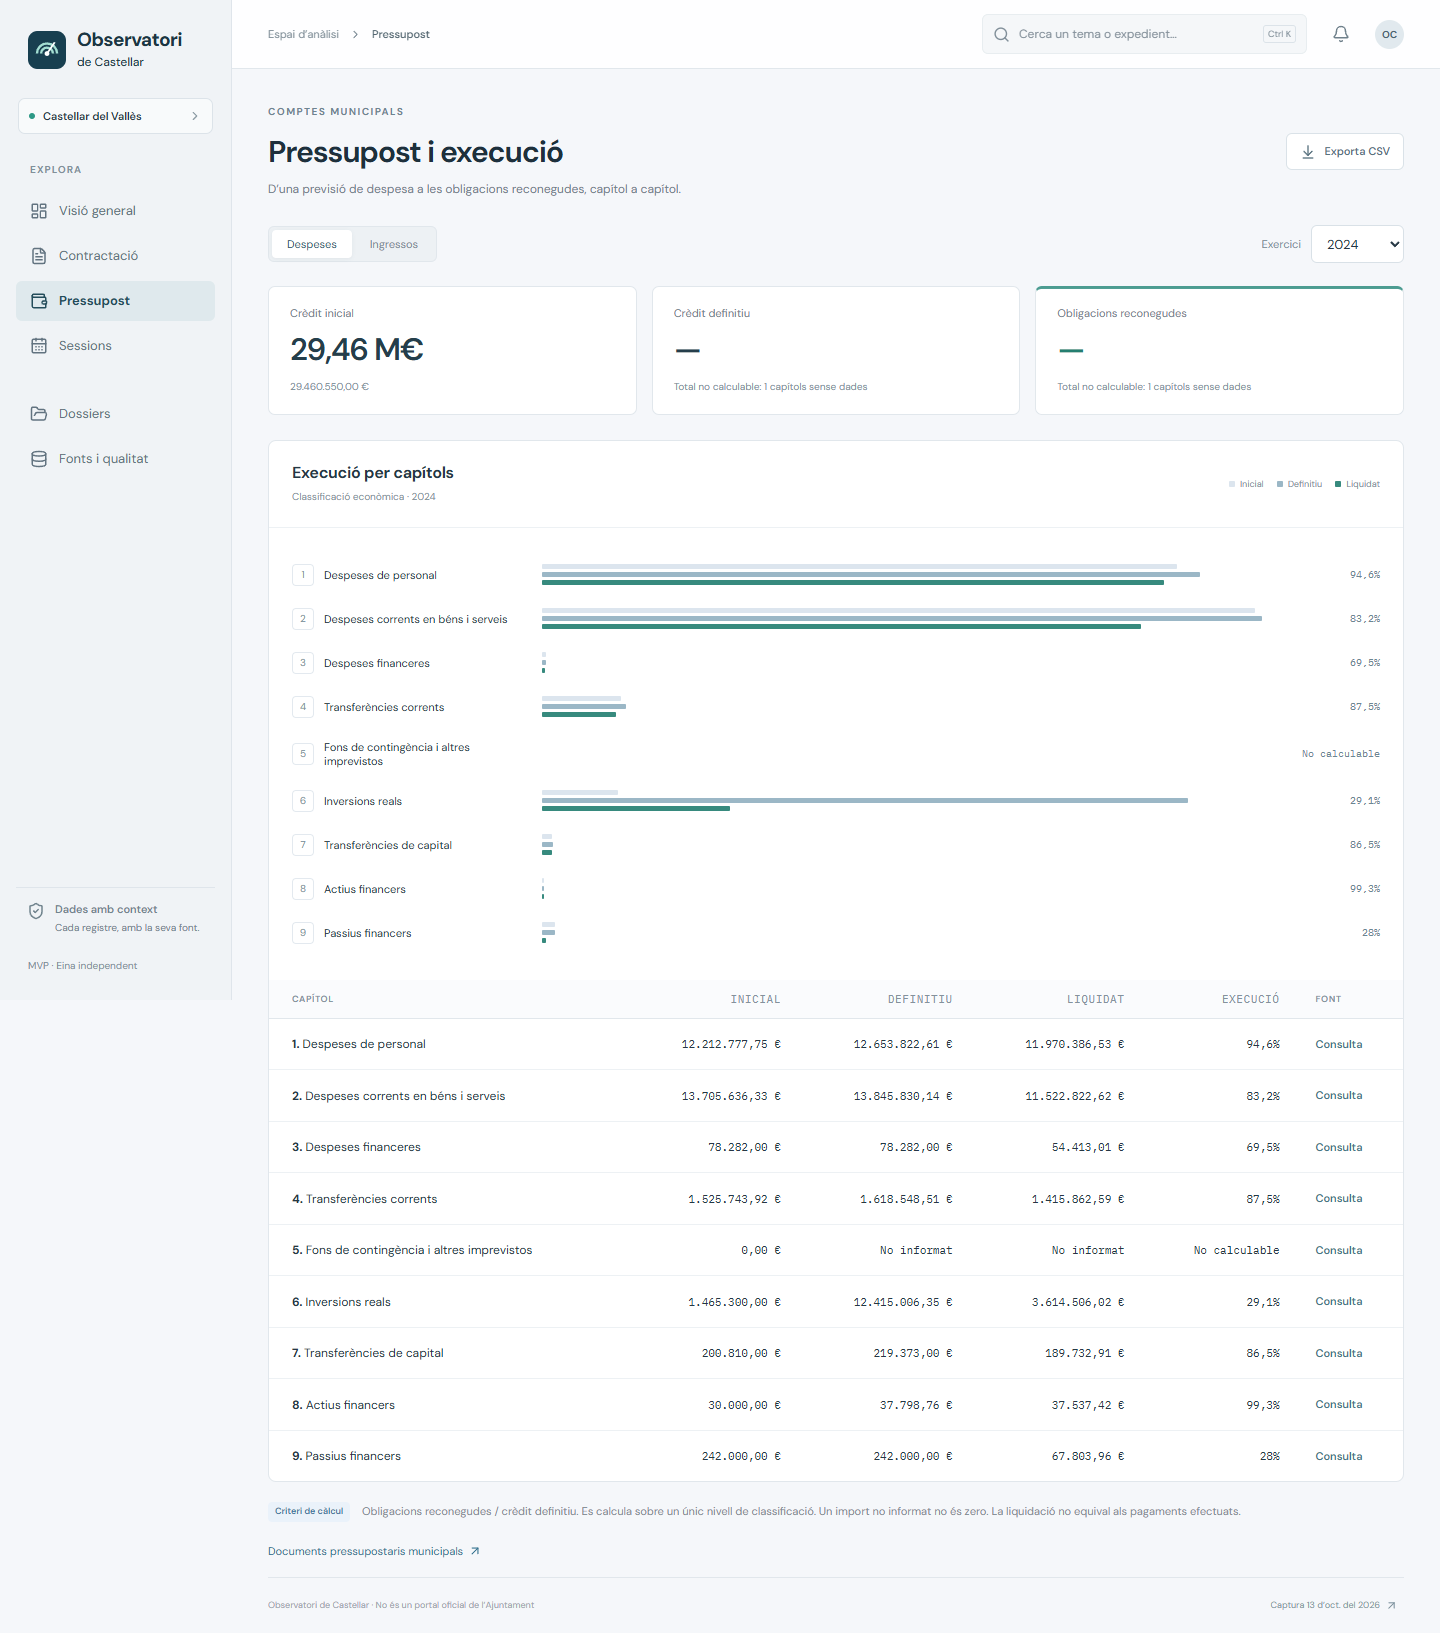
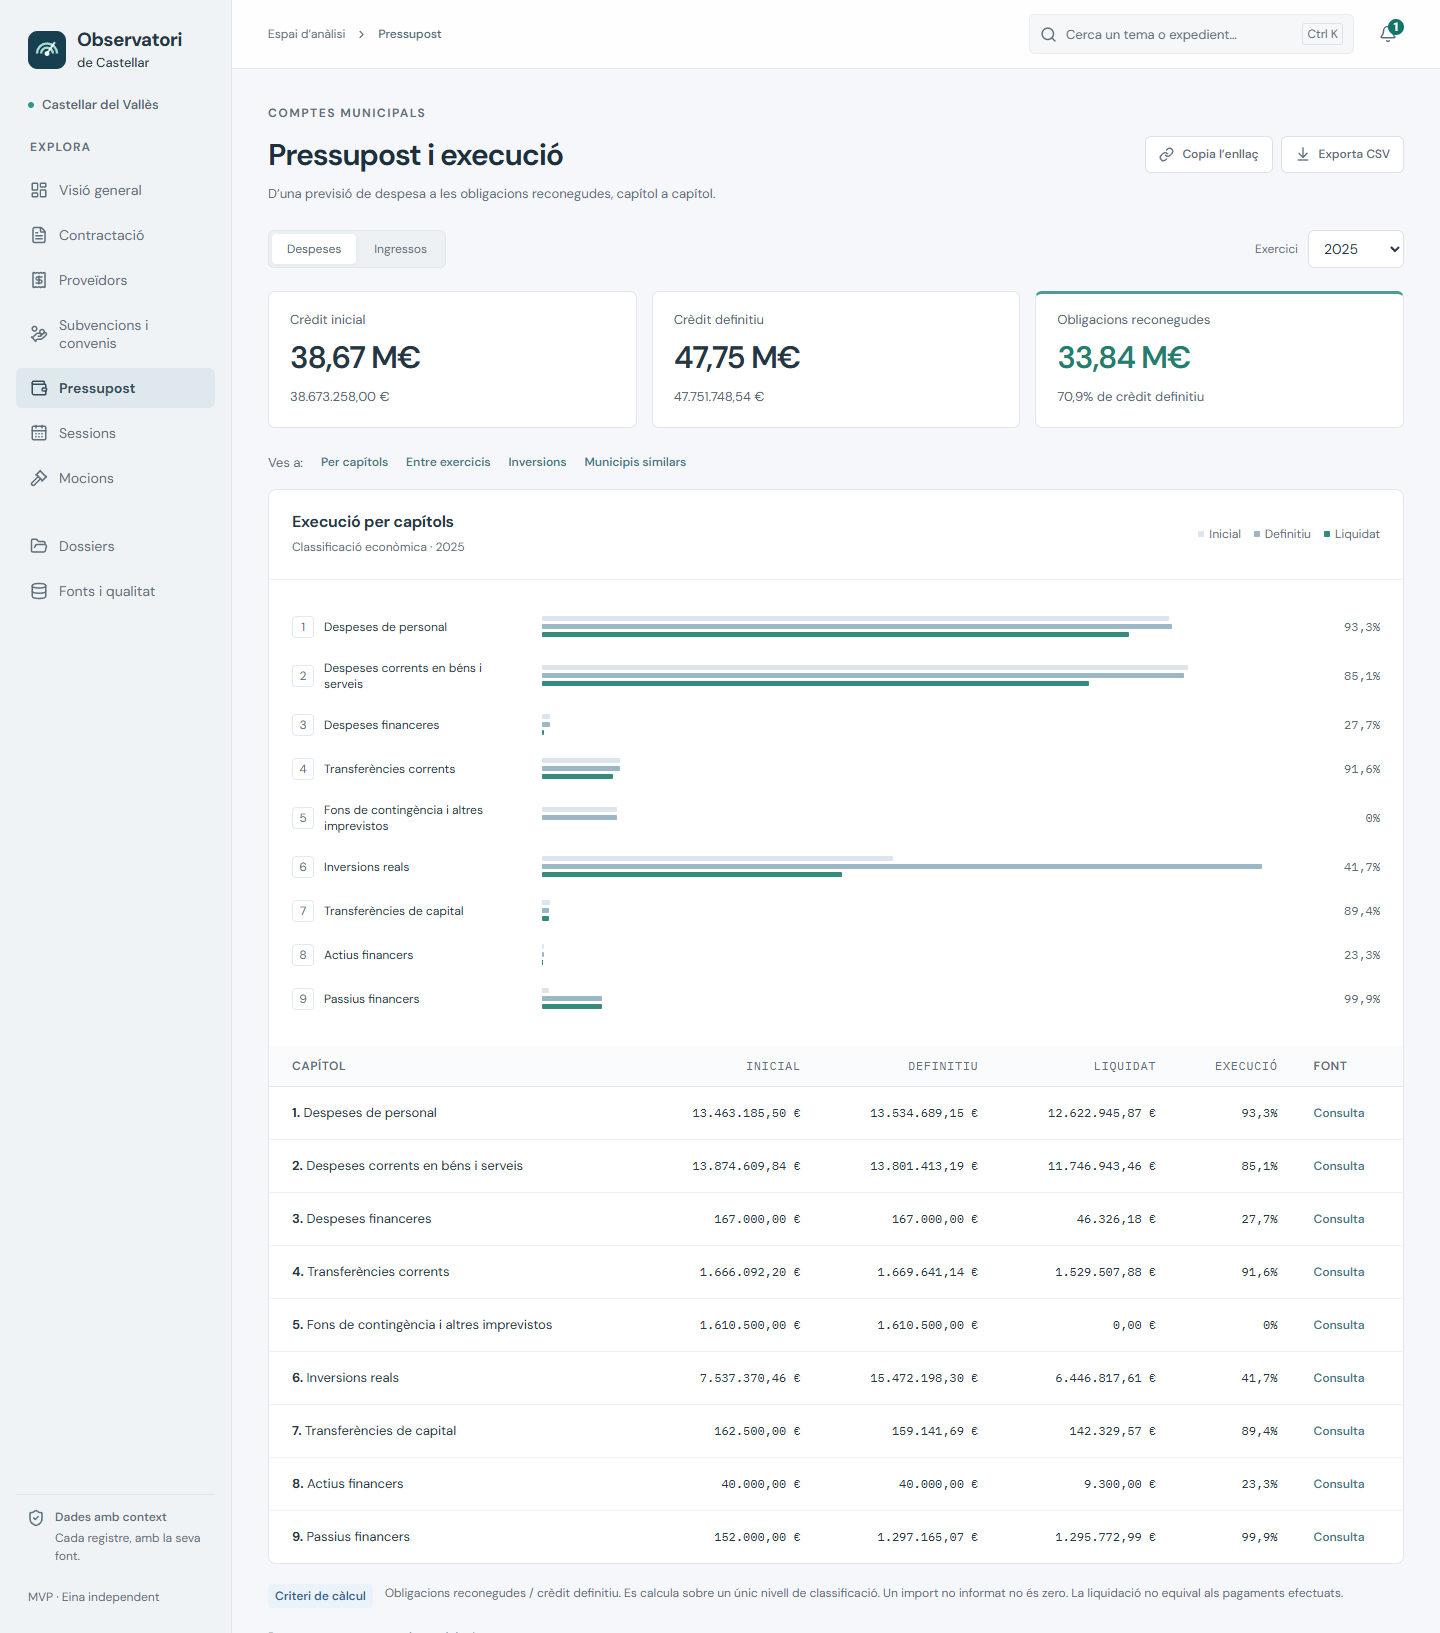
Documenta la revisió d'estètica i funcionalitat
- Verificació, README i guia d'ús amb els canvis de la revisió.
- Captures de docs/captures regenerades amb el disseny nou.

diff --git a/GUIA-D-US.md b/GUIA-D-US.md
@@ -46,8 +46,8 @@ La consulta funciona amb la captura inclosa; no cal actualitzar les dades per pr
 - **Venciments i pròrrogues:** a Contractació, «Venciments i pròrrogues» mostra, per a la font triada, els contractes no menors que acaben el termini inicial en els pròxims 6, 12 o 24 mesos, o que han vençut l’últim any, agrupats per mes. Cada data indica si és la publicada per la font o una estimació (inici + durada); les del RPC són aproximades perquè parteixen de l’adjudicació. A sota, els expedients amb dues o més pròrrogues registrades (o totes, amb «Inclou les pròrrogues úniques») amb la cronologia i l’enllaç a cada fita. Una pròrroga extraordinària es marca en vermell: convé demanar-ne la justificació. Útil per preparar preguntes abans que un servei venci sense contracte nou.
 - **Proveïdors:** la pàgina «Proveïdors» mostra, per exercici, quant ha facturat cada empresa o entitat a l’Ajuntament (amb IVA) segons el registre de factures. Per defecte s’obre el darrer exercici tancat. El primer bloc recull els emissors que superen 18.150 € (el llindar del contracte menor de serveis, 15.000 €, més l’IVA) i dels quals no s’ha trobat cap contracte amb el mateix nom al catàleg. Obre un emissor per veure’n l’evolució per exercici, els contractes trobats i l’enllaç a les factures originals. La relació és només per nom: un contracte anterior al 2022, d’una central de compres o amb l’adjudicatari amagat no hi apareix, i és el primer que cal descartar abans de fer cap pregunta. Les persones físiques no surten mai amb nom.
 - **Castellar entre municipis similars:** a «Pressupost», sota la comparació d’exercicis, la taula situa cada capítol de Castellar entre els municipis catalans de 15.000 a 35.000 habitants: import per habitant, mediana del grup, interval central (la meitat dels municipis hi cau a dins) i posició (1 = el més alt). Segueix l’exercici i el costat (despeses o ingressos) triats a dalt; la magnitud és «Liquidat» si l’exercici està tancat i «Inicial» si no. A cada fila, la tira de punts mostra tots els municipis (el punt verd és Castellar i la ratlla, la mediana); passa-hi el ratolí per veure’n el nom. «Rànquing» obre la llista ordenada d’aquell capítol, que es pot exportar en CSV. Són xifres de l’ajuntament sense empreses municipals ni consorcis: abans de treure conclusions, comprova si el servei es presta de la mateixa manera als municipis comparats.
-- **Subvencions i convenis:** la pàgina té dues vistes. «Subvencions» mostra, per exercici (per defecte, el darrer tancat), quant ha rebut cada entitat, quina part s’ha atorgat sense convocatòria (nominatives, directes, excepcionals o amb conveni: es dedueix del títol de l’acord) i si la mateixa entitat també factura a l’Ajuntament; obre una entitat per veure’n l’evolució i cada acord, i baixa fins a «Per acord o convocatòria» per veure on va cada bloc de diners. «Convenis» llista els que consten «en curs» amb la data de fi ja passada (pot ser una pròrroga que no consta a la font o un estat no actualitzat: és el primer que cal preguntar), els que vencen en els pròxims 12 mesos i els que no tenen data de fi o superen els 4 anys. El botó «Conveni CONV…» d’una subvenció porta al conveni que cita. Les persones físiques no surten mai amb nom.
-- **Noms de grup:** els ordres del dia escriuen el nom d’un grup de maneres diferents. L’eina agrupa les variants que comencen igual; per unir-ne d’altres, fes servir «Unifica noms» a la taula per grup. Les unions es poden desfer i viatgen amb l’exportació del seguiment.
+- **Subvencions i convenis:** la pàgina té dues vistes. «Subvencions» mostra, per exercici (per defecte, el darrer tancat), quant ha rebut cada entitat, quina part s’ha atorgat sense convocatòria (nominatives, directes, excepcionals o amb conveni: es dedueix del títol de l’acord) i si la mateixa entitat també factura a l’Ajuntament; obre una entitat per veure’n l’evolució i cada acord, i baixa fins a «Per acord o convocatòria» per veure on va cada bloc de diners. «Convenis» té quatre pestanyes: els que consten «en curs» amb la data de fi ja passada (pot ser una pròrroga que no consta a la font o un estat no actualitzat: és el primer que cal preguntar), els que vencen en els pròxims 12 mesos, els que no tenen data de fi o superen els 4 anys, i tots els convenis amb cercador. El botó «Conveni CONV…» d’una subvenció porta al conveni que cita. Les persones físiques no surten mai amb nom.
+- **Noms de grup:** els ordres del dia escriuen el nom d’un grup de maneres diferents. L’eina agrupa les variants que comencen igual i, damunt la taula per grup, suggereix altres possibles variants (sigles, ordre diferent): comprova-les a l’ordre del dia i prem «Uneix» o «Descarta». Per a la resta, fes servir «Unifica noms». Les unions es poden desfer i viatgen amb l’exportació del seguiment.
 
 ## Conserva els dossiers locals
 

diff --git a/README.md b/README.md
@@ -13,11 +13,11 @@ MVP funcional d’exploració municipal, en català i amb estètica de tauler so
 - Pressupostos 2022–2026 i liquidacions 2022–2025 per capítol econòmic, comparació anual d’inicial/definitiu/liquidat i exportació de diferències.
 - Catàleg Ple/JGL i punts indexats dels plens amb filtre preventiu de privacitat.
 - Execució de les inversions (capítol 6) per exercici, a la portada i a Pressupost, amb crèdit inicial, definitiu, liquidat i crèdit no executat.
-- Seguiment de mocions del Ple: grup i títol extrets de l’ordre del dia, recompte per grup i any, temes recurrents, i estat de la votació, compliment i notes marcats a mà al navegador, amb exportació i importació JSON i CSV.
+- Seguiment de mocions del Ple: grup i títol extrets de l’ordre del dia, recompte per grup i any, temes recurrents, i estat de la votació, compliment i notes marcats a mà al navegador, amb exportació i importació JSON i CSV. Suggereix possibles variants del nom d’un mateix grup per unir-les.
 - Patrons a revisar en contractes menors: imports entre el 90 i el 100 % del llindar legal, diversos contractes del mateix adjudicatari o del mateix CPV en un exercici que sumats hi arriben, amb exportació CSV.
 - Venciments i pròrrogues: calendari de la fi del termini inicial dels contractes no menors (data publicada o estimada a partir de la durada) i expedients amb pròrrogues encadenades o extraordinàries segons les fites d’execució de la PSCP, amb exportació CSV.
 - Proveïdors i facturació: factures registrades agregades per emissor i exercici (només persones jurídiques amb denominació pròpia; la resta, sense nom), historial per exercici, contractes del catàleg amb el mateix nom i patró a revisar «per sobre de 18.150 € sense contracte trobat amb aquest nom», amb exportació CSV.
-- Subvencions i convenis: concessions de subvenció per entitat i exercici (només persones jurídiques amb denominació pròpia; la resta, agregada per acord sense nom), import sense convocatòria, entitats que també facturen i resum per acord; convenis en curs amb la data de fi passada, venciments dels pròxims 12 mesos i vigència a revisar, amb exportació CSV.
+- Subvencions i convenis: concessions de subvenció per entitat i exercici (només persones jurídiques amb denominació pròpia; la resta, agregada per acord sense nom), import sense convocatòria, entitats que també facturen i resum per acord; convenis en curs amb la data de fi passada, venciments dels pròxims 12 mesos i vigència a revisar, en pestanyes, amb exportació CSV.
 - Comparació amb els 56 municipis catalans de 15.000 a 35.000 habitants (padró de l’Idescat): pressupost inicial, definitiu o liquidat per habitant i capítol, mediana i interval central del grup, posició de Castellar i rànquing exportable per capítol, a la pàgina Pressupost. Les xifres de Castellar es contrasten amb les de la secció de pressupost en cada captura.
 - Resum a la portada: venciments dels pròxims sis mesos (contractes PSCP no menors i convenis en curs) i posició de Castellar entre municipis similars en el darrer exercici liquidat.
 - Canal RSS `ple.xml` amb els 25 plens més recents i els punts indexats, generat en compilar a partir de la mateixa captura.
@@ -33,7 +33,7 @@ npm run build
 npm run preview -- --port 4174
 ```
 
-`npm run build` genera **dist**, l’única carpeta que s’ha de publicar. `netlify.toml` configura ordre de build, Node.js 24, carpeta i capçaleres. No hi ha secrets ni consultes obligatòries a portals externs durant la consulta web. Les fonts tipogràfiques se serveixen localment.
+`npm run build` genera **dist**, l’única carpeta que s’ha de publicar. En compilar, les factures dels proveïdors se separen a `dist/data/suppliers.json`, que el web només carrega a les pàgines que les fan servir. `netlify.toml` configura ordre de build, Node.js 24, carpeta i capçaleres. No hi ha secrets ni consultes obligatòries a portals externs durant la consulta web. Les fonts tipogràfiques se serveixen localment.
 
 ```powershell
 py -3.13 scripts/ingest.py

diff --git a/VERIFICACIO.md b/VERIFICACIO.md
@@ -170,3 +170,15 @@ Verificació executada: 42 escenaris de navegador (5 de nous a `tests/browser/su
 - **Límits:** ajuntaments sense ens dependents ni consolidació (empreses municipals, consorcis i mancomunitats poden desplaçar la despesa a transferències o fora del pressupost); imports nominals; el grup no té en compte comarca, estacionalitat turística ni competències delegades.
 
 Verificació executada: 45 escenaris de navegador (3 de nous a `tests/browser/municipis.spec.ts`, amb dades inventades; s’ha acotat a la taula d’execució la prova de pressupost que ara trobava dues files «Despeses de personal») i 2 de producció; 22 proves de la captura (1 de nova: grup per població, codis d’ens, capítols no informats i contrast amb el pressupost de Castellar). TypeScript correcte. Captura completa executada en local i captures revisades d’escriptori i mòbil amb el catàleg real.
+
+## Revisió d’estètica i funcionalitat · 16/10/2026
+
+- **Llegibilitat:** els prop de 100 colors de text del full d’estils queden en una paleta curta de variables (`--text`, `--text-2`, `--muted-strong`, `--muted`, `--amber-text`, `--teal-text`, `--blue`); cap text no baixa de 12 px, tampoc en mòbil (la impressió conserva les mides pròpies). Comprovació automàtica sobre 13 pantalles en ordinador i mòbil: cap text per sota de 12 px ni amb contrast inferior a 4,5:1 respecte al fons real, sense desbordament horitzontal ni errors de consola.
+- **Portada:** expedients i registres comptats sense les dates futures, com a Contractació; sessions convocades marcades com a pròximes; la targeta de dossiers buida cedeix el lloc als contractes menors a prop del llindar.
+- **Controls:** la campana indica les novetats de la darrera captura i porta a la llista (`#sources?seccio=novetats`); fora la rodona d’usuari i l’etiqueta del municipi amb aspecte de botó.
+- **Mòbil:** gràfics de barres en dues files; les taules amb columnes amagades s’esvaeixen a la vora (`src/scrollHints.ts`).
+- **Reorganització:** Pressupost comença per l’execució per capítols, amb enllaços a cada secció; Convenis mostra una sola llista amb pestanyes (`llista=vencuts|propers|revisar|tots`) i un enllaç amb codi obre la llista completa. Convenis passa de ~6.900 a ~2.200 px d’alçada en ordinador.
+- **Mocions:** suggeriments genèrics de variants del nom d’un grup (paraula distintiva compartida o forma abreujada), sense noms al codi; amb la captura real en surten 2 i cap fals positiu. Més paraules genèriques fora dels temes recurrents.
+- **Pes de les dades:** en compilar, les factures passen a `dist/data/suppliers.json` i el catàleg inicial baixa de 3,1 a 1,8 MB (de 450 a 288 kB comprimit). Només es carreguen a Proveïdors, Subvencions i, si hi ha novetats de factures, a Fonts i qualitat. `public/data/catalog.json` i el capturador no canvien.
+
+Verificació executada: 50 escenaris de navegador (2 de nous: suggeriments de variants i càrrega a demanda de les factures; s’adapta la de convenis a les pestanyes) i 3 de producció (1 de nou: fitxer de factures separat i carregat només quan cal); 25 proves de la captura. TypeScript i Vite correctes. Captures de `docs/captures/` regenerades.
